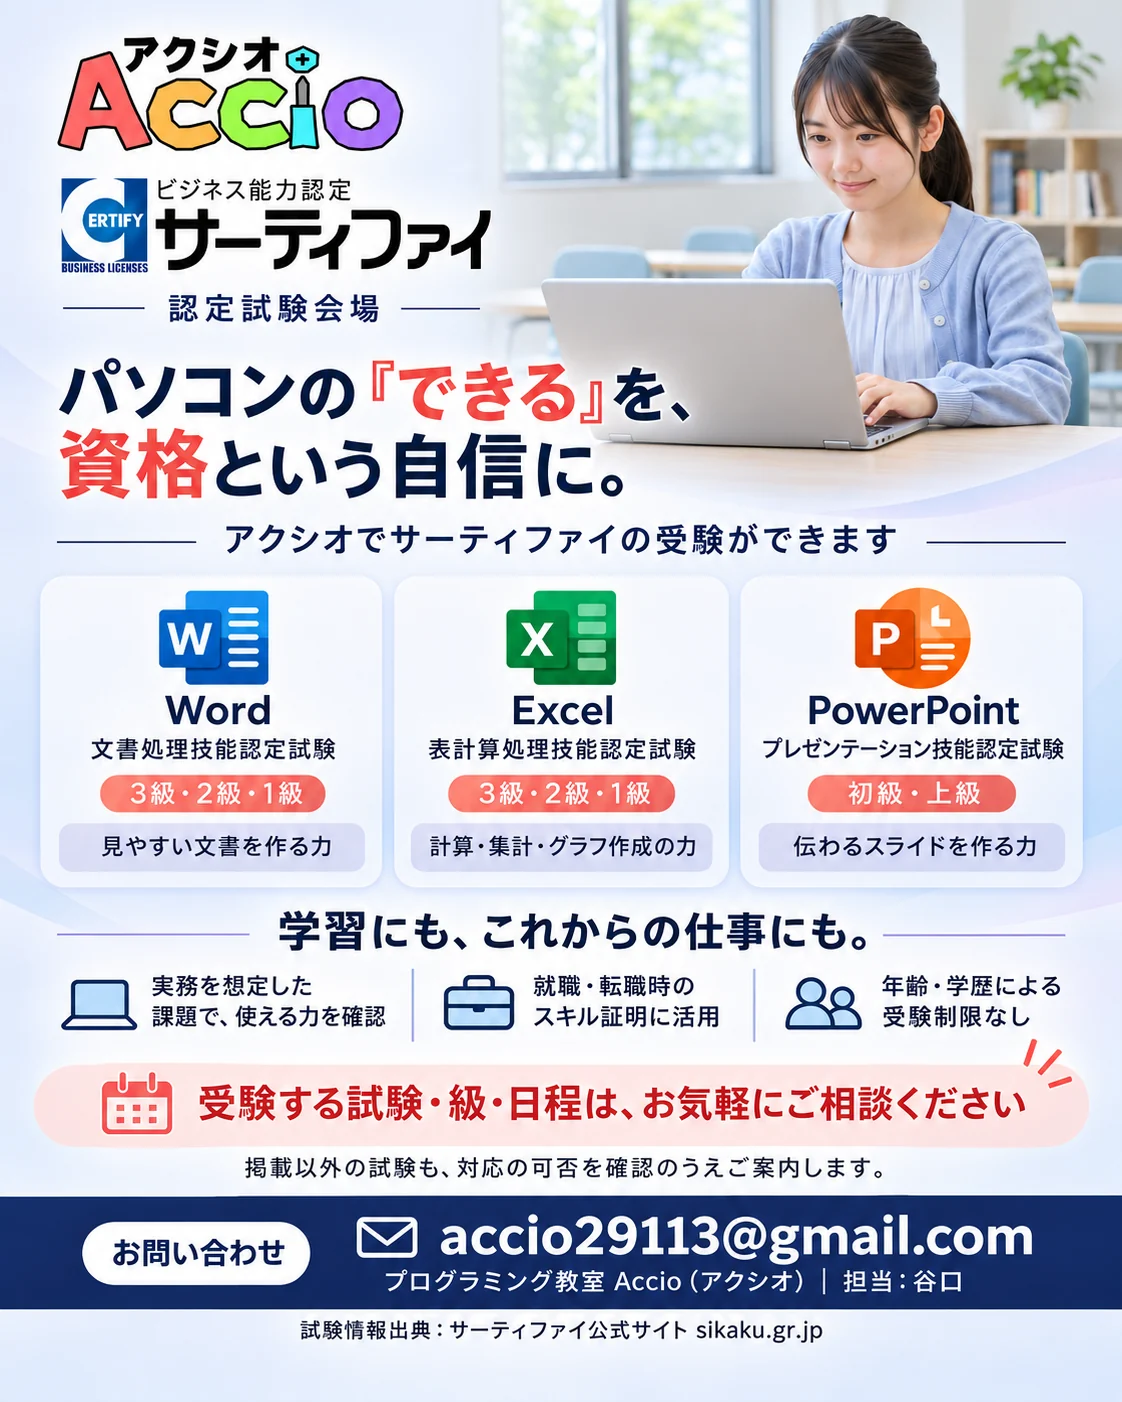
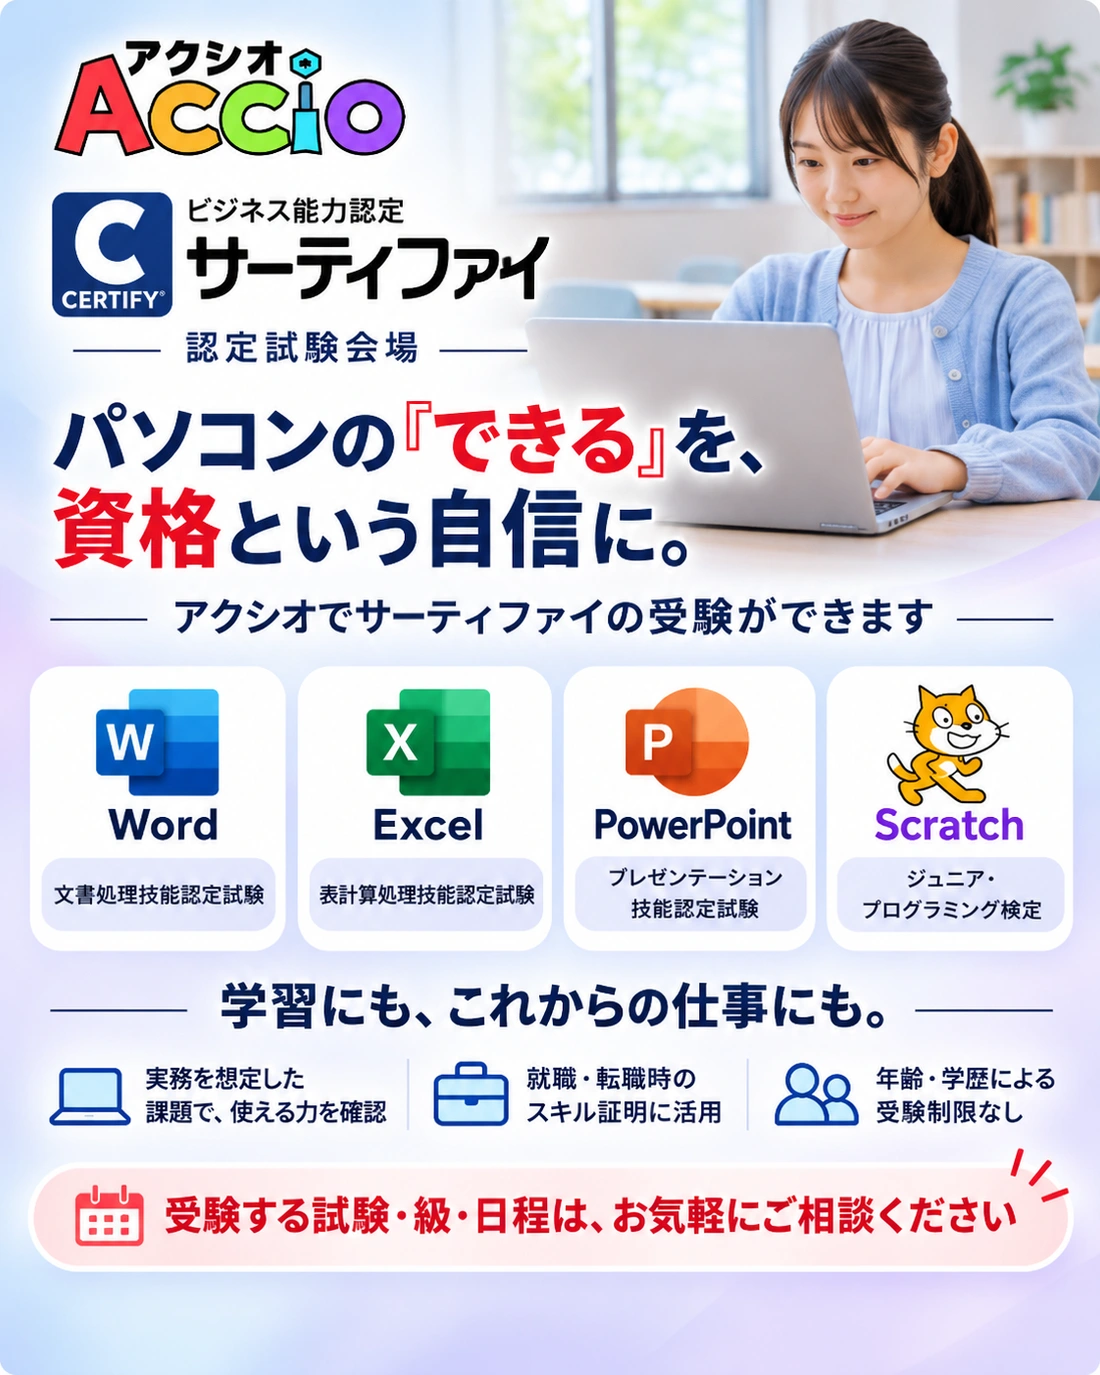
Add files via upload

diff --git a/index.html b/index.html
@@ -294,10 +294,10 @@
     <p class="sec-lead">学んだ力を「合格」という自信に。Accioは検定の認定会場です。</p>
     <div class="pass-banner" role="note"><span class="star" aria-hidden="true">★</span><span class="pass-text">プロ検合格者を<strong>多数輩出</strong>しています。</span><span class="star" aria-hidden="true">★</span></div>
     <div class="pair">
-      <div class="exam-card"><img src="images/proken.webp" alt="プログラミング能力検定（プロ検）の認定会場" loading="lazy" width="1122" height="1402">
+      <div class="exam-card"><img src="images/proken.webp" alt="プログラミング能力検定（プロ検）の認定会場" loading="lazy" width="1100" height="1375">
         <h3>プロ検（プログラミング能力検定）</h3><p>成績表で得意・苦手を確認でき、次の目標も見つかります。</p></div>
-      <div class="exam-card"><img src="images/certify.webp" alt="サーティファイ認定試験会場。Word・Excel・PowerPointの受験ができます" loading="lazy" width="1122" height="1402">
-        <h3>サーティファイ（Word・Excel・PowerPoint）</h3><p>実際にパソコンを操作して、文書や資料を作る力を確かめられます。</p></div>
+      <div class="exam-card"><img src="images/certify.webp" alt="サーティファイ認定試験会場。Word・Excel・PowerPoint・Scratch（ジュニア・プログラミング検定）の受験ができます" loading="lazy" width="1100" height="1375">
+        <h3>サーティファイ（Word・Excel・PowerPoint・Scratch）</h3><p>文書や資料を作る力、Scratchでプログラミングする力を確かめられます。</p></div>
     </div>
     <div class="consult-box">
       <h3>ほかの試験も、ご相談ください</h3>
